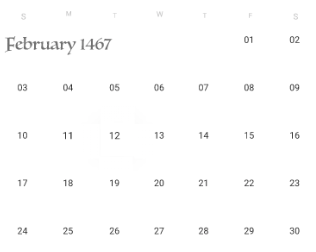
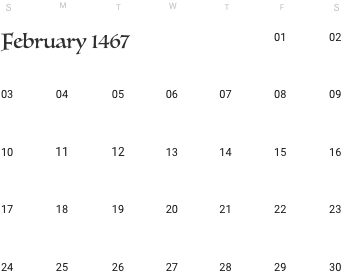
Added png calendar

diff --git a/src/Content/Pages/Browse.js b/src/Content/Pages/Browse.js
@@ -2,7 +2,7 @@ import React from 'react'
 import FilterInput from '../../FilterInput'
 import EventList from '../../EventList'
 import {Container, Row, Col, Jumbotron} from 'reactstrap'
-import calendar from '../../static/img/calendar2.png'
+import Calendar from '../../static/img/Calendar.png'
 
 
 class Browse extends React.Component{
@@ -43,7 +43,7 @@ class Browse extends React.Component{
 
                         </Col> */}
                         <Col sm="6">
-                            <img className="calendar" src={calendar} alt="calendar"/>
+                            <img className="calendar" src={Calendar} alt="calendar"/>
                         </Col>
                     </Row> 
                     <hr/>
